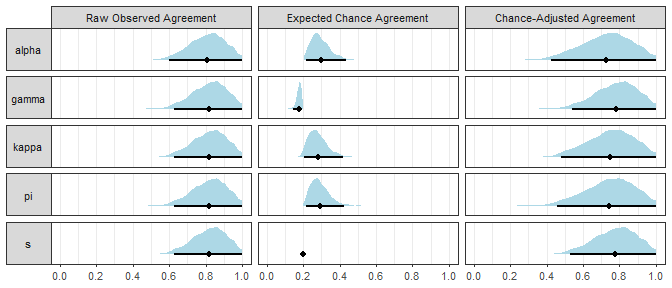
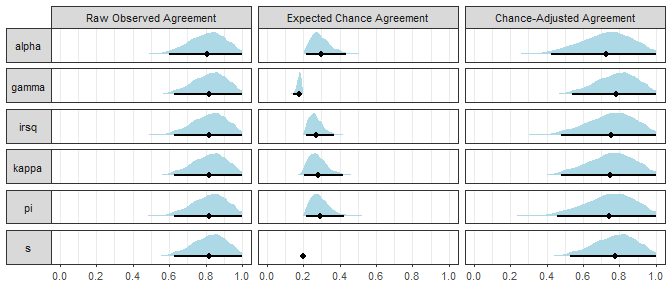
Add function to calculate irsq index Recreate README to accommodate this

diff --git a/README.md b/README.md
@@ -10,13 +10,16 @@ experimental](https://img.shields.io/badge/lifecycle-experimental-orange.svg)](h
 <!-- badges: end -->
 
 The goal of the `agreement` package is to calculate estimates of
-inter-rater reliability using generalized formulas and output results in
-a tidy dataframe format that makes collecting, bootstrapping, and
-plotting them easy. The package includes functions for all major
-chance-adjusted indexes of categorical agreement (i.e., S, gamma, kappa,
-pi, alpha) as well as all major intraclass correlation coefficients
-(i.e., one-way and two-way models, agreement and consistency types, and
-single measure and average measure units).
+inter-rater agreement and reliability using generalized formulas that
+accommodate different designs (e.g., crossed or uncrossed), missing
+data, and ordered or unordered categories. The package includes
+generalized functions for all major chance-adjusted indexes of
+categorical agreement (i.e., \(\alpha\), \(\gamma\), \(I_r^2\),
+\(\kappa\), \(\pi\), and \(S\)) as well as all major intraclass
+correlation coefficients (i.e., one-way and two-way models, agreement
+and consistency types, and single measure and average measure units).
+Estimates include bootstrap resampling distributions, confidence
+intervals, and custom tidying and plotting functions.
 
 ## Installation
 
@@ -73,34 +76,38 @@ summary(results1, ci = TRUE)
 #> Chance-Adjusted Categorical Agreement with Bootstrapped CIs
 #> 
 #>         Observed   Expected   Adjusted   2.5 %   97.5 %
-#> s          0.818      0.200      0.773   0.531        1
+#> alpha      0.805      0.240      0.743   0.425        1
 #> gamma      0.818      0.190      0.775   0.541        1
+#> irsq       0.818      0.229      0.764   0.479        1
 #> kappa      0.818      0.233      0.763   0.479        1
 #> pi         0.818      0.239      0.761   0.458        1
-#> alpha      0.805      0.240      0.743   0.425        1
+#> s          0.818      0.200      0.773   0.531        1
 ```
 
 ``` r
 # Transform results into a tidy data frame
 tidy(results1)
-#> # A tibble: 15 x 6
+#> # A tibble: 18 x 6
 #>    approach weighting term     estimate lower upper
 #>    <chr>    <chr>     <chr>       <dbl> <dbl> <dbl>
-#>  1 s        identity  Observed    0.818 0.625 1    
+#>  1 alpha    identity  Observed    0.805 0.600 1.000
 #>  2 gamma    identity  Observed    0.818 0.625 1    
-#>  3 kappa    identity  Observed    0.818 0.625 1    
-#>  4 pi       identity  Observed    0.818 0.625 1    
-#>  5 alpha    identity  Observed    0.805 0.600 1.000
-#>  6 s        identity  Expected    0.2   0.2   0.2  
-#>  7 gamma    identity  Expected    0.190 0.144 0.196
-#>  8 kappa    identity  Expected    0.233 0.202 0.420
-#>  9 pi       identity  Expected    0.239 0.218 0.424
-#> 10 alpha    identity  Expected    0.24  0.216 0.435
-#> 11 s        identity  Adjusted    0.773 0.531 1    
-#> 12 gamma    identity  Adjusted    0.775 0.541 1    
-#> 13 kappa    identity  Adjusted    0.763 0.479 1    
-#> 14 pi       identity  Adjusted    0.761 0.458 1    
-#> 15 alpha    identity  Adjusted    0.743 0.425 1
+#>  3 irsq     identity  Observed    0.818 0.625 1    
+#>  4 kappa    identity  Observed    0.818 0.625 1    
+#>  5 pi       identity  Observed    0.818 0.625 1    
+#>  6 s        identity  Observed    0.818 0.625 1    
+#>  7 alpha    identity  Expected    0.24  0.216 0.435
+#>  8 gamma    identity  Expected    0.190 0.144 0.196
+#>  9 irsq     identity  Expected    0.229 0.214 0.368
+#> 10 kappa    identity  Expected    0.233 0.202 0.420
+#> 11 pi       identity  Expected    0.239 0.218 0.424
+#> 12 s        identity  Expected    0.2   0.2   0.2  
+#> 13 alpha    identity  Adjusted    0.743 0.425 1    
+#> 14 gamma    identity  Adjusted    0.775 0.541 1    
+#> 15 irsq     identity  Adjusted    0.764 0.479 1    
+#> 16 kappa    identity  Adjusted    0.763 0.479 1    
+#> 17 pi       identity  Adjusted    0.761 0.458 1    
+#> 18 s        identity  Adjusted    0.773 0.531 1
 ```
 
 ``` r
@@ -158,33 +165,37 @@ summary(results2, ci = TRUE)
 #> Chance-Adjusted Categorical Agreement with Bootstrapped CIs
 #> 
 #>         Observed   Expected   Adjusted   2.5 %   97.5 %
-#> s          0.859      0.583      0.663   0.523    0.803
+#> alpha      0.864      0.643      0.618   0.404    0.753
 #> gamma      0.859      0.553      0.686   0.558    0.834
+#> irsq       0.859      0.642      0.607   0.396    0.749
 #> kappa      0.859      0.636      0.614   0.394    0.762
 #> pi         0.859      0.648      0.601   0.375    0.746
-#> alpha      0.864      0.643      0.618   0.404    0.753
+#> s          0.859      0.583      0.663   0.523    0.803
 ```
 
 ``` r
 tidy(results2)
-#> # A tibble: 15 x 6
+#> # A tibble: 18 x 6
 #>    approach weighting term     estimate lower upper
 #>    <chr>    <chr>     <chr>       <dbl> <dbl> <dbl>
-#>  1 s        linear    Observed    0.859 0.801 0.918
+#>  1 alpha    linear    Observed    0.864 0.810 0.919
 #>  2 gamma    linear    Observed    0.859 0.801 0.918
-#>  3 kappa    linear    Observed    0.859 0.801 0.918
-#>  4 pi       linear    Observed    0.859 0.801 0.918
-#>  5 alpha    linear    Observed    0.864 0.810 0.919
-#>  6 s        linear    Expected    0.583 0.583 0.583
-#>  7 gamma    linear    Expected    0.553 0.467 0.575
-#>  8 kappa    linear    Expected    0.636 0.576 0.732
-#>  9 pi       linear    Expected    0.648 0.592 0.741
-#> 10 alpha    linear    Expected    0.643 0.587 0.740
-#> 11 s        linear    Adjusted    0.663 0.523 0.803
-#> 12 gamma    linear    Adjusted    0.686 0.558 0.834
-#> 13 kappa    linear    Adjusted    0.614 0.394 0.762
-#> 14 pi       linear    Adjusted    0.601 0.375 0.746
-#> 15 alpha    linear    Adjusted    0.618 0.404 0.753
+#>  3 irsq     linear    Observed    0.859 0.801 0.918
+#>  4 kappa    linear    Observed    0.859 0.801 0.918
+#>  5 pi       linear    Observed    0.859 0.801 0.918
+#>  6 s        linear    Observed    0.859 0.801 0.918
+#>  7 alpha    linear    Expected    0.643 0.587 0.740
+#>  8 gamma    linear    Expected    0.553 0.467 0.575
+#>  9 irsq     linear    Expected    0.642 0.591 0.727
+#> 10 kappa    linear    Expected    0.636 0.576 0.732
+#> 11 pi       linear    Expected    0.648 0.592 0.741
+#> 12 s        linear    Expected    0.583 0.583 0.583
+#> 13 alpha    linear    Adjusted    0.618 0.404 0.753
+#> 14 gamma    linear    Adjusted    0.686 0.558 0.834
+#> 15 irsq     linear    Adjusted    0.607 0.396 0.749
+#> 16 kappa    linear    Adjusted    0.614 0.394 0.762
+#> 17 pi       linear    Adjusted    0.601 0.375 0.746
+#> 18 s        linear    Adjusted    0.663 0.523 0.803
 ```
 
 ``` r
